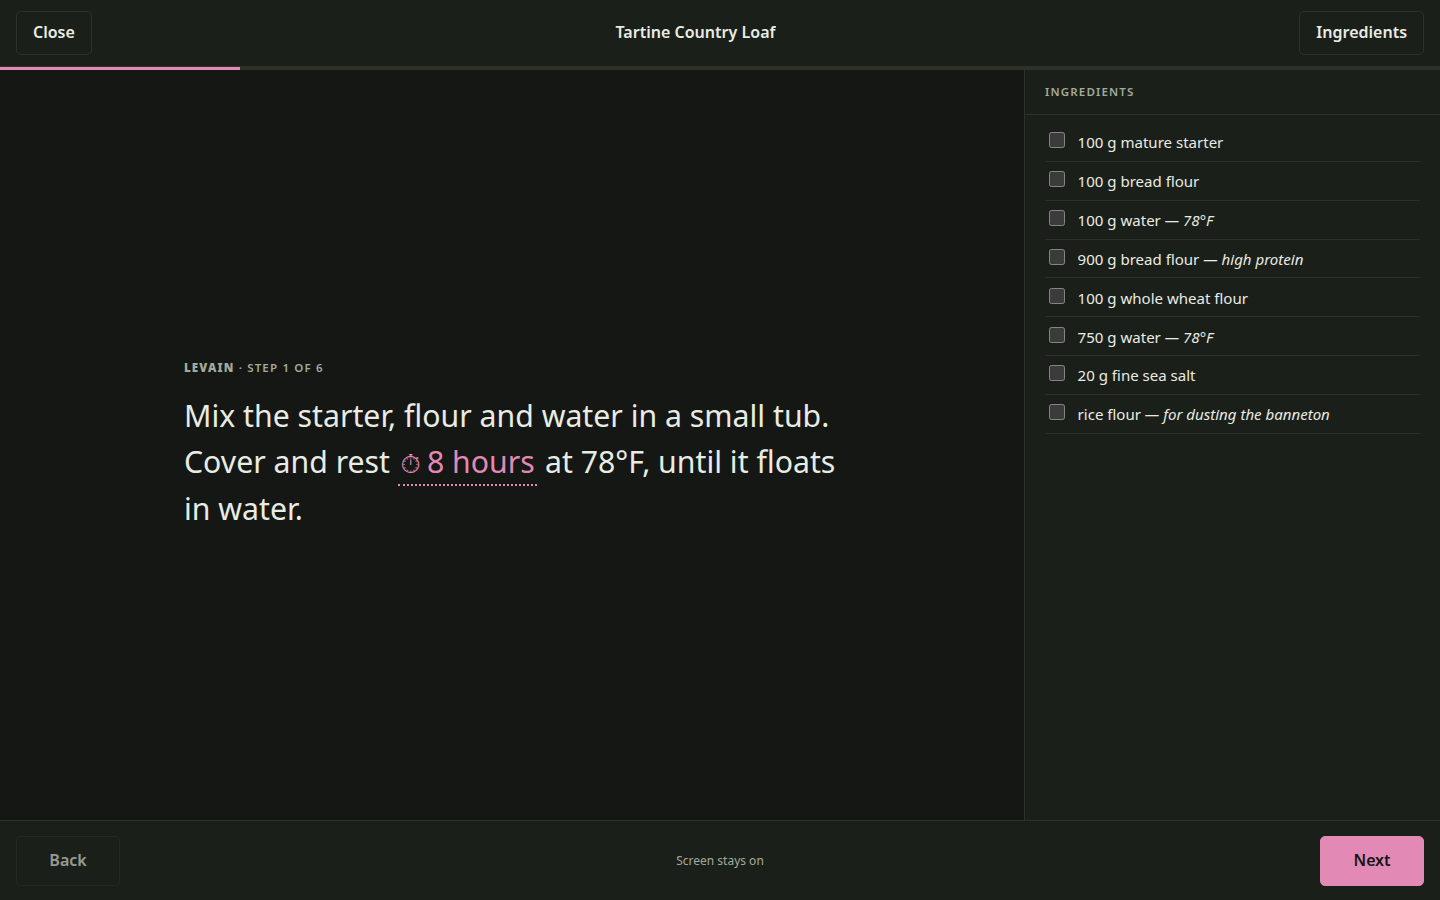
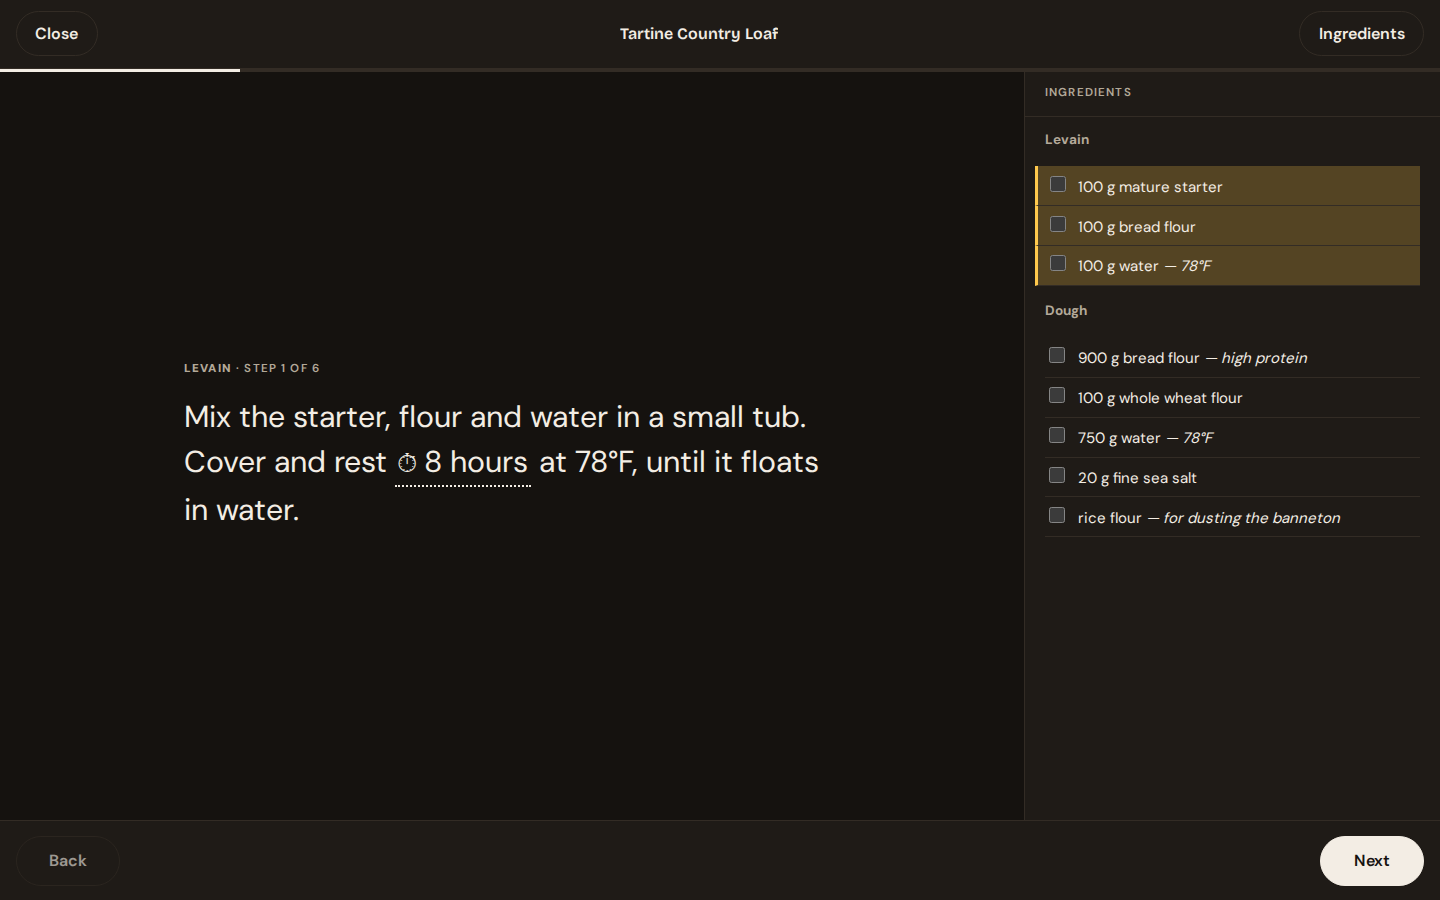
Update the README: new screenshots, and what has shipped since it was written
- Screenshots retaken in the current design, from the demo seed (the same
  recipes the live links point at): the recipe page, a proposal, history
  and cook mode in the dark theme. A new one shows a recipe at ×2 with the
  amounts in its steps scaled.
- What it does: writing in a form, amounts in steps that scale, the
  timeline, installable and readable offline, emailed sign-up codes,
  account settings, bot checks and rate limits, the feedback inbox.
- Quickstart: the home page no longer shows health, so point at
  /api/health, and at db:seed for content.
- A table of the optional settings in .env.example and what happens
  without each one.
- Sign-in: the emailed code in production (printed to the console
  locally) and the /login, /signup redirects.
- URLs: history, forks, lists, search, settings and admin.
- 800+ tests.

diff --git a/README.md b/README.md
@@ -14,11 +14,15 @@ it with one click.
 [an open proposal](https://openskillet.com/openrecipe-dev/tartine-country-loaf/proposals/1),
 or [its history](https://openskillet.com/openrecipe-dev/tartine-country-loaf/history).
 
-![A recipe page: ingredients with scaling and unit controls beside the method](docs/screenshots/recipe.png)
+![A recipe page: the recipe's panel with times and actions, a timeline of how the day breaks down, and the ingredients beside the method](docs/screenshots/recipe.png)
 
-| A proposal, merging cleanly                     | History, with any two versions compared       | Cook mode, one step at a time                            |
-| ----------------------------------------------- | --------------------------------------------- | -------------------------------------------------------- |
-| ![Proposal page](docs/screenshots/proposal.png) | ![History page](docs/screenshots/history.png) | ![Cook mode, dark theme](docs/screenshots/cook-mode.png) |
+| A proposal, merging cleanly                     | History, with any two versions compared       |
+| ----------------------------------------------- | --------------------------------------------- |
+| ![Proposal page](docs/screenshots/proposal.png) | ![History page](docs/screenshots/history.png) |
+
+| Scaled ×2 — the amounts in the steps follow the list             | Cook mode, one step at a time                            |
+| ---------------------------------------------------------------- | -------------------------------------------------------- |
+| ![Recipe scaled to twice the batch](docs/screenshots/scaled.png) | ![Cook mode, dark theme](docs/screenshots/cook-mode.png) |
 
 ## What it does
 
@@ -29,13 +33,21 @@ or [its history](https://openskillet.com/openrecipe-dev/tartine-country-loaf/his
   `water: 750 g → 780 g` and `Hydration 77.3% → 80%`, not just which lines moved.
 - **Recipes as documents.** Markdown with YAML frontmatter — the same text you
   can download from `/raw` and keep. Ingredients are structured; the method is
-  prose.
+  prose. Write one in a form or as the source, a tab apart, and unsaved work
+  survives a closed tab.
 - **Built for the kitchen.** Scale by yield or by one ingredient, switch metric
-  and US units, and cook step by step with timers lifted from the text and the
-  screen kept awake.
+  and US units, and amounts written into the steps ("700g of the water") follow
+  along. A timeline shows how the time splits across the sections. Cook step by
+  step with timers lifted from the text, the screen kept awake, and each step's
+  ingredients beside it.
+- **Installable, and readable offline.** A web app manifest and a service
+  worker: add it to a home screen, and recipes you have opened still load
+  without a connection.
 - **The rest of a real product.** Private recipes, shared lists with
-  collaborators, full-text search, stars, link previews, password reset,
-  reporting and moderation, and account deletion.
+  collaborators, full-text search, stars, link previews with structured data,
+  sign-up confirmed by an emailed code, account settings (email, password,
+  sessions), password reset, bot checks and rate limits, reporting and
+  moderation, a feedback inbox, and account deletion.
 
 ## How it works
 
@@ -66,7 +78,7 @@ A few decisions that carry most of the weight — each is written up in
 - **One container, any host.** Hono serves the built SPA from the same origin as
   the API: no CORS, no cross-site cookies. Migrations run before the server
   binds, and the [`Dockerfile`](Dockerfile) is the only contract with the host.
-- **Tests against real infrastructure.** 700+ tests on Node's built-in runner.
+- **Tests against real infrastructure.** 800+ tests on Node's built-in runner.
   CI runs the API suite against real Postgres and S3-compatible storage, and
   [a guard](apps/api/src/test-guard.ts) refuses to run it against a non-local
   database.
@@ -89,8 +101,11 @@ npm run db:migrate
 npm run dev          # core watcher + api :8787 + web :5173
 ```
 
-Open <http://localhost:5173>. The page reports API and database health — if both
-are green, your stack is working.
+Open <http://localhost:5173>. To check the stack,
+<http://localhost:5173/api/health> should answer `"status":"ok"` with
+`"database":"up"`. A fresh database is empty; `npm run db:seed` (see
+[Demo data](#demo-data)) gives it the demo recipes, forks and proposals the
+live site links to above.
 
 ## Layout
 
@@ -130,6 +145,16 @@ user/password `openrecipe` / `openrecipe-dev-secret`). Image uploads need
 `S3_ENDPOINT`, `S3_BUCKET`, `S3_ACCESS_KEY` and `S3_SECRET_KEY` (`S3_REGION` is
 optional, defaulting to `auto`); without them everything else works and uploads
 answer 503.
+
+Everything else is optional, and documented in [`.env.example`](.env.example):
+
+| Variable                                     | Without it                                                                                   |
+| -------------------------------------------- | -------------------------------------------------------------------------------------------- |
+| `RESEND_API_KEY`, `MAIL_FROM`                | Sign-up codes, password-reset links and email-change links are printed to the API's console. |
+| `TURNSTILE_SITE_KEY`, `TURNSTILE_SECRET_KEY` | No bot check on sign-up, sign-in and password reset. `TURNSTILE_ENABLED=false` turns it off. |
+| `ADMIN_EMAILS`                               | Nobody is an admin; `/admin` (reports and feedback) is a 404 for everyone.                   |
+| `CLIENT_IP_HEADER`                           | Rate limits key on `x-forwarded-for`. Behind Cloudflare's proxy, use `cf-connecting-ip`.     |
+| `GITHUB_CLIENT_ID`, `GITHUB_CLIENT_SECRET`   | No GitHub sign-in — see [Sign-in](#sign-in).                                                 |
 
 ## End-to-end tests
 
@@ -230,10 +255,16 @@ a user agent that says what it is.
 
 ## Sign-in
 
-Email and password work out of the box. GitHub sign-in is **only registered when
-both `GITHUB_CLIENT_ID` and `GITHUB_CLIENT_SECRET` are set**, so a fresh clone
-runs without anyone creating an OAuth app. When you do want it, the callback URL
-is `http://localhost:5173/api/auth/callback/github`.
+Email and password work out of the box. In production a new email account is
+confirmed with a six-digit code sent to the address before it can set a
+password; locally, without `RESEND_API_KEY`, the code is printed to the API's
+console instead. `/login`, `/signup` and the other addresses people type out of
+habit redirect to `/signin`.
+
+GitHub sign-in is **only registered when both `GITHUB_CLIENT_ID` and
+`GITHUB_CLIENT_SECRET` are set**, so a fresh clone runs without anyone creating
+an OAuth app. When you do want it, the callback URL is
+`http://localhost:5173/api/auth/callback/github`.
 
 Handles are claimed at signup: supply one, or we derive it from your email and
 suffix `-2`, `-3`, … on collision. Anything that could become a top-level route
@@ -242,14 +273,20 @@ suffix `-2`, `-3`, … on collision. Anything that could become a top-level rout
 
 ## URLs
 
-| Path                               | What                            |
-| ---------------------------------- | ------------------------------- |
-| `/{handle}`                        | A cook's recipes                |
-| `/{handle}/{slug}`                 | A recipe                        |
-| `/{handle}/{slug}/cook`            | Cook mode — one step at a time  |
-| `/{handle}/{slug}/proposals`       | Proposals against this recipe   |
-| `/new`                             | Write a recipe                  |
-| `/api/recipes/{handle}/{slug}/raw` | The recipe as portable Markdown |
+| Path                               | What                                        |
+| ---------------------------------- | ------------------------------------------- |
+| `/{handle}`                        | A cook's recipes, stars and lists           |
+| `/{handle}/{slug}`                 | A recipe                                    |
+| `/{handle}/{slug}/cook`            | Cook mode — one step at a time              |
+| `/{handle}/{slug}/history`         | Every version, and any two compared         |
+| `/{handle}/{slug}/forks`           | Its forks, with what each one changed       |
+| `/{handle}/{slug}/proposals`       | Proposals against this recipe               |
+| `/{handle}/lists/{list}`           | A list of recipes                           |
+| `/search`                          | Full-text search, filtered by tag           |
+| `/new`                             | Write a recipe                              |
+| `/settings`                        | Email, password, sessions, account deletion |
+| `/admin`                           | Reports and feedback, for `ADMIN_EMAILS`    |
+| `/api/recipes/{handle}/{slug}/raw` | The recipe as portable Markdown             |
 
 `?scale=` and `?units=metric|us` on a recipe are a _view_ of it: they scale and
 convert what you are reading, mint no version, and are inherited by cook mode.
